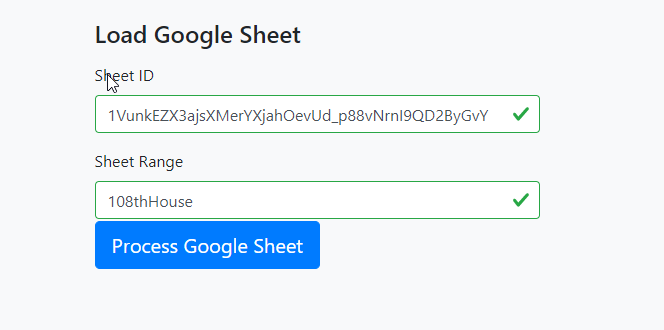
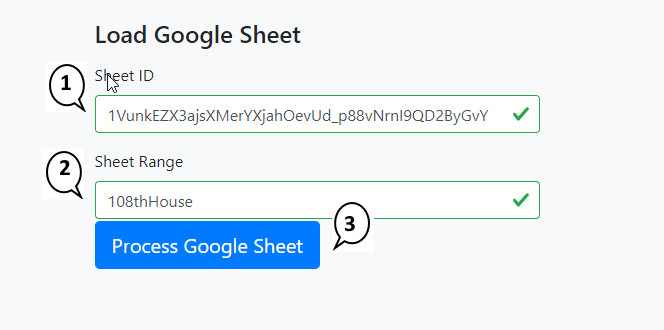
more doc

Changed region(s): [[0.4819, 0.6061, 0.5723, 0.7576], [0.0602, 0.1818, 0.1506, 0.3333], [0.0602, 0.4545, 0.1205, 0.6061]]

diff --git a/docs.visalyzer.com/components.html b/docs.visalyzer.com/components.html
@@ -155,25 +155,60 @@
                                         </div>
                                     </div><!--//row-->
                                 </div><!--//section-block-->
-                                <div id="plans" class="section-block">
-                                    <h3 class="block-title">Equity Stock Plans</h3>
-                                    <p>The plans section allows you create, edit and delete equity compensation plans.</p>
+                                <div id="load-source" class="section-block">
+                                    <h3 class="block-title">Load Source</h3>
+                                    <p>The Load Source section allows you specify the input for the matrix data.</p>
                                     <div class="row">
                                         <div class="col-md-6 col-sm-6 col-xs-12">
-                                            <h6>Plans List</h6>
+                                            <h6>Load Source - File Based</h6>
                                             <div class="screenshot-holder">
-                                                <a href="assets/images/company/03_company_plan_list.png" data-title="Plans List" data-toggle="lightbox"><img class="img-responsive" src="assets/images/company/03_company_plan_list.png" alt="screenshot" /></a>
-                                                <a class="mask" href="assets/images/company/03_company_plan_list.png" data-title="Plans List" data-toggle="lightbox"><i class="icon fa fa-search-plus"></i></a>
+                                                <a href="assets/images/dashboard/IncTrak_VisAlyzer_load_source_file.png" data-title="Load from File" data-toggle="lightbox"><img class="img-responsive" src="assets/images/dashboard/IncTrak_VisAlyzer_load_source_file.png" alt="screenshot" /></a>
+                                                <a class="mask" href="assets/images/dashboard/IncTrak_VisAlyzer_load_source_file.png" data-title="Load from File" data-toggle="lightbox"><i class="icon fa fa-search-plus"></i></a>
                                             </div>
-                                            <p>The plan list shows you all existing plans. You can create new plans by selecting the "Create New Plan>" link and see detail or edit existing plans by selecting the related link.</p>
+                                            <p>
+                                                <ol>
+                                                    <li>
+                                                        File Type
+                                                        <ul>
+                                                            <li>csv - a comma separated values text file</li>
+                                                            <li>
+                                                                Excel (xls, xlxs, etc.) - a Microsoft Excel file
+                                                                <ul>
+                                                                    <li>xlsx & xlsb - OpenXml - 2007 and newer</li>
+                                                                    <li>
+                                                                        xls - BIFF - 97-98, 2000-2004, XP, 2.0 to 5.0, 95
+                                                                    </li>
+                                                                </ul>
+                                                            </li>
+                                                        </ul>
+                                                    </li>
+                                                    <li>Choose File - press this button to choose a local file to upload for processing</li>
+                                                    <li>Status Bar - shows file upload progress</li>
+                                                    <li>Upload/Process File - press this button to create a new VisAlyze project from the uploaded file</li>
+                                                </ol>
+                                            </p>
                                         </div>
                                         <div class="col-md-6 col-sm-6 col-xs-12">
-                                            <h6>Plan Details</h6>
+                                            <h6>Load Source - Google Sheet Based</h6>
                                             <div class="screenshot-holder">
-                                                <a href="assets/images/company/04_company_plan.png" data-title="Plans Details" data-toggle="lightbox"><img class="img-responsive" src="assets/images/company/04_company_plan.png" alt="screenshot" /></a>
-                                                <a class="mask" href="assets/images/company/04_company_plan.png" data-title="Plans Details" data-toggle="lightbox"><i class="icon fa fa-search-plus"></i></a>
+                                                <a href="assets/images/dashboard/IncTrak_VisAlyzer_load_source_google.png" data-title="Load from Google" data-toggle="lightbox"><img class="img-responsive" src="assets/images/dashboard/IncTrak_VisAlyzer_load_source_google.png" alt="screenshot" /></a>
+                                                <a class="mask" href="assets/images/dashboard/IncTrak_VisAlyzer_load_source_google.png" data-title="Load from Google" data-toggle="lightbox"><i class="icon fa fa-search-plus"></i></a>
                                             </div>
-                                            <p>Set the Plan name and total number of shares allocated, Click "Submit" to save changes and "Remove" to delete the plan.</p>
+                                            <p>
+                                                <ol>
+                                                    <li>Sheet ID - The ID of the Google Sheet to load (see below on how to determine this value)</li>
+                                                    <li>Sheet Range - the name of the Sheet and range of cells to to load (see below on how to determine this the sheet name)</li>
+                                                    <li>Process Google Sheet - press this button to create a new VisAlyze project from the Google Sheet</li>
+                                                </ol>
+                                                <div class="screenshot-holder">
+                                                    <a href="assets/images/dashboard/IncTrak_VisAlyzer_google_sheet.png" data-title="Google ID & Sheet" data-toggle="lightbox"><img class="img-responsive" src="assets/images/dashboard/IncTrak_VisAlyzer_google_sheet.png" alt="screenshot" /></a>
+                                                    <a class="mask" href="assets/images/dashboard/IncTrak_VisAlyzer_google_sheet.png" data-title="Google ID & Sheet" data-toggle="lightbox"><i class="icon fa fa-search-plus"></i></a>
+                                                </div>
+                                                <ol>
+                                                    <li>Sheet ID - this is the Google Sheet ID</li>
+                                                    <li>Sheet Name - this is the Goole Sheet Name</li>
+                                                </ol>
+                                            </p>
                                         </div>
                                     </div><!--//row-->
                                 </div><!--//section-block-->
@@ -502,7 +537,7 @@
                                         <li><a class="scrollto" href="#dashboard">Dashboard</a></li>
                                         <li><a class="scrollto" href="#saved-projects">Saved Projects</a></li>
                                         <li><a class="scrollto" href="#project_options">Project Options</a></li>
-                                        <li><a class="scrollto" href="#plans">Equity Stock Plans</a></li>
+                                        <li><a class="scrollto" href="#load-source">Load Source</a></li>
                                         <li><a class="scrollto" href="#vestingschedule">Vesting Schedules</a></li>
                                         <li><a class="scrollto" href="#terminationdates">Termination Dates</a></li>
                                         <li><a class="scrollto" href="#participants">Participants</a></li>
